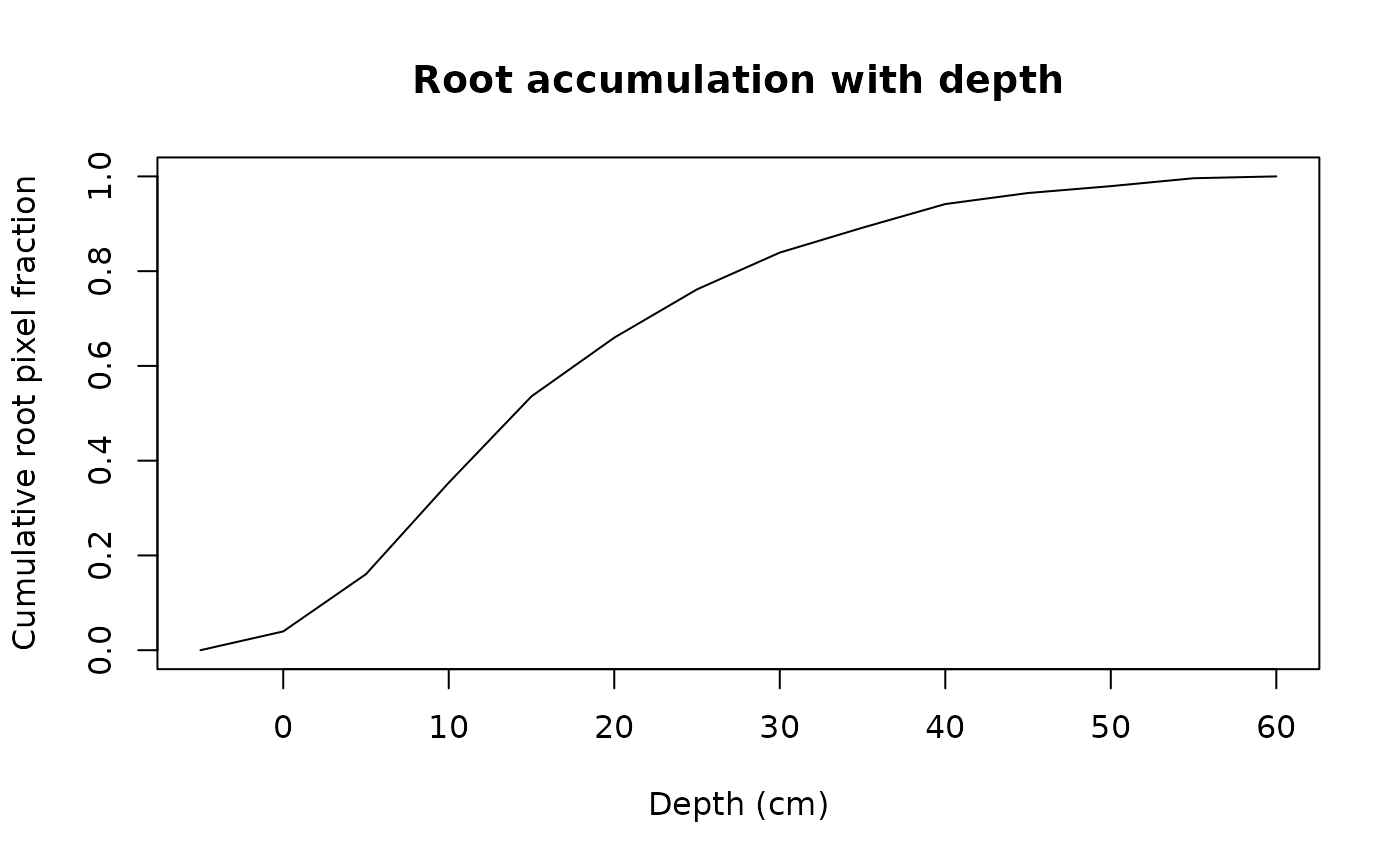
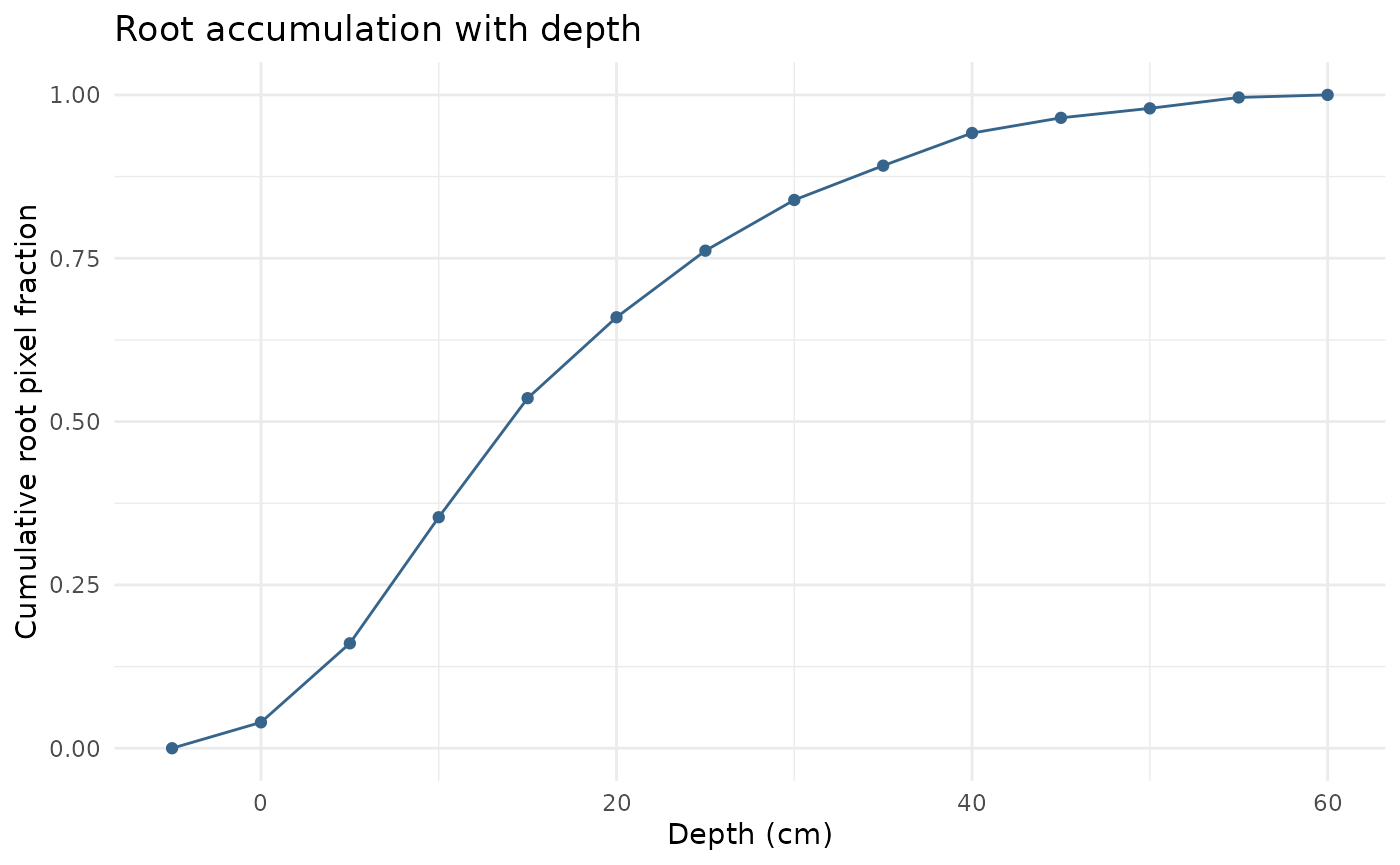
Deploying to gh-pages from @ jcunow/Rootopia@6d923c8a024adc14d2c3fadce9296ad4fd39996d 🚀

diff --git a/articles/MinirhizotronScans_vignettes.html b/articles/MinirhizotronScans_vignettes.html
@@ -109,10 +109,12 @@ and extracting root traits step by step. It is aimed at users who want
 full control over each processing stage or who are working on a specific
 subset of functions.</p>
 <blockquote>
-<p><strong>New to Rootopia?</strong> If you want to process a whole set
-of images in one go, the <a href="BatchProcessing_vignette.html">Batch
-Processing</a> vignette wraps this entire workflow into a single
-<code><a href="../reference/root_depth_metrics.html">root_depth_metrics()</a></code> call. Start there.</p>
+<p><strong>New to Rootopia?</strong> You are in the right place — this
+step-by-step workflow is the recommended starting point. Once you are
+comfortable with the individual functions and want to process a whole
+folder of images at once, the <a href="BatchProcessing_vignette.html">Batch Processing</a> vignette wraps
+this entire workflow into a single <code><a href="../reference/root_depth_metrics.html">root_depth_metrics()</a></code>
+call.</p>
 </blockquote>
 <blockquote>
 <p><strong>Prerequisite</strong>: Rootopia works with already-segmented
@@ -311,9 +313,8 @@ centered.</td>
 <span>  center_offset <span class="op">=</span> <span class="fl">0.5</span>      <span class="co"># 0 = top of tube, 1 = bottom</span></span>
 <span><span class="op">)</span></span>
 <span></span>
-<span><span class="co"># create_depthmap() returns the map already aligned with the input image, so it</span></span>
-<span><span class="co"># shares extent/resolution with the segmented raster (required for terra::zonal()</span></span>
-<span><span class="co"># and depth_zoning() below). No transpose/flip needed.</span></span>
+<span><span class="co"># terra::zonal() and depth_zoning() require rasters to share an extent; snap the</span></span>
+<span><span class="co"># depth map onto the root-layer grid once here.</span></span>
 <span><span class="fu">terra</span><span class="fu">::</span><span class="fu"><a href="https://rspatial.github.io/terra/reference/ext.html" class="external-link">ext</a></span><span class="op">(</span><span class="va">depth_map</span><span class="op">)</span> <span class="op">&lt;-</span> <span class="fu">terra</span><span class="fu">::</span><span class="fu"><a href="https://rspatial.github.io/terra/reference/ext.html" class="external-link">ext</a></span><span class="op">(</span><span class="va">root_layer</span><span class="op">)</span></span>
 <span></span>
 <span><span class="fu">terra</span><span class="fu">::</span><span class="fu"><a href="https://rspatial.github.io/terra/reference/plot.html" class="external-link">plot</a></span><span class="op">(</span><span class="va">depth_map</span>, main <span class="op">=</span> <span class="st">"Depth map (cm)"</span><span class="op">)</span></span></code></pre></div>
@@ -432,8 +433,10 @@ that takes a whole image.</p>
 <div class="section level5">
 <h5 id="d--root-diameter-whole-profile-with-zonal">5d. Root diameter — whole profile with <code>zonal()</code><a class="anchor" aria-label="anchor" href="#d--root-diameter-whole-profile-with-zonal"></a>
 </h5>
-<p>Diameter is a per-pixel value, so once you have the diameter raster
-you are back in <code><a href="https://rspatial.github.io/terra/reference/zonal.html" class="external-link">zonal()</a></code> territory.</p>
+<p><code><a href="../reference/root_diameter.html">root_diameter()</a></code> estimates a diameter at every skeleton
+pixel (in the <code>unit</code> you specify) and returns it as a raster.
+Because it is a per-pixel value, the profile reduces with
+<code><a href="https://rspatial.github.io/terra/reference/zonal.html" class="external-link">zonal()</a></code> just like the pixel counts in 5a.</p>
 <div class="sourceCode" id="cb10"><pre class="downlit sourceCode r">
 <code class="sourceCode R"><span><span class="va">diam_result</span> <span class="op">&lt;-</span> <span class="fu"><a href="../reference/root_diameter.html">root_diameter</a></span><span class="op">(</span></span>
 <span>  <span class="va">root_layer</span>,</span>
@@ -441,7 +444,6 @@ you are back in <code><a href="https://rspatial.github.io/terra/reference/zonal.
 <span>  unit         <span class="op">=</span> <span class="st">"cm"</span>,</span>
 <span>  select_layer <span class="op">=</span> <span class="cn">NULL</span></span>
 <span><span class="op">)</span></span>
-<span><span class="co"># Align the diameter raster to the depth grid before zonal aggregation</span></span>
 <span><span class="fu">terra</span><span class="fu">::</span><span class="fu"><a href="https://rspatial.github.io/terra/reference/ext.html" class="external-link">ext</a></span><span class="op">(</span><span class="va">diam_result</span><span class="op">$</span><span class="va">diameter_rast</span><span class="op">)</span> <span class="op">&lt;-</span> <span class="fu">terra</span><span class="fu">::</span><span class="fu"><a href="https://rspatial.github.io/terra/reference/ext.html" class="external-link">ext</a></span><span class="op">(</span><span class="va">depth_bins</span><span class="op">)</span></span>
 <span></span>
 <span><span class="va">diam_by_depth</span> <span class="op">&lt;-</span> <span class="fu">terra</span><span class="fu">::</span><span class="fu"><a href="https://rspatial.github.io/terra/reference/zonal.html" class="external-link">zonal</a></span><span class="op">(</span><span class="va">diam_result</span><span class="op">$</span><span class="va">diameter_rast</span>, <span class="va">depth_bins</span>,</span>
@@ -524,9 +526,9 @@ if your RGB and segmentation already share a grid you can skip it.</p>
 <span><span class="op">}</span><span class="op">)</span></span>
 <span><span class="va">color_df</span> <span class="op">&lt;-</span> <span class="fu"><a href="https://rdrr.io/r/base/do.call.html" class="external-link">do.call</a></span><span class="op">(</span><span class="va">rbind</span>, <span class="va">color_list</span><span class="op">)</span>   <span class="co"># NULLs from empty bins are dropped</span></span></code></pre></div>
 <blockquote>
-<p>Looking for <strong>root branching order</strong> (main axis
-vs. laterals)? That analysis has no depth dimension, so it lives in the
-<a href="FlatBedScans_vignettes.html#6b-branch-order-main-axis-vs-laterals">Flatbed
+<p>Looking for <strong>root branching order</strong> (segments grouped
+by branching order)? That analysis has no depth dimension, so it lives
+in the <a href="FlatBedScans_vignettes.html#7b-branch-order">Flatbed
 Scans</a> vignette. You can still run it on a minirhizotron skeleton —
 just compute it once for the whole image rather than per depth bin.</p>
 </blockquote>
@@ -539,18 +541,15 @@ just compute it once for the whole image rather than per depth bin.</p>
 <p>These tube-level summary metrics require a complete depth
 profile.</p>
 <div class="sourceCode" id="cb13"><pre class="downlit sourceCode r">
-<code class="sourceCode R"><span><span class="co"># Mean rooting depth — depth-weighted mean</span></span>
+<code class="sourceCode R"><span><span class="co"># Mean rooting depth — depth-weighted mean (a robust centre-of-root-mass estimate)</span></span>
 <span><span class="va">mrd_val</span> <span class="op">&lt;-</span> <span class="fu"><a href="../reference/MRD.html">MRD</a></span><span class="op">(</span>w <span class="op">=</span> <span class="va">depth_data</span><span class="op">$</span><span class="va">depth</span>, roots <span class="op">=</span> <span class="va">depth_data</span><span class="op">$</span><span class="va">rootlength.density</span><span class="op">)</span></span>
-<span></span>
-<span><span class="co"># Root Penetration Index — how evenly roots are distributed with depth (-1 to 1)</span></span>
-<span><span class="va">rpi_val</span>  <span class="op">&lt;-</span> <span class="fu"><a href="../reference/RPI.html">RPI</a></span><span class="op">(</span>roots <span class="op">=</span> <span class="va">depth_data</span><span class="op">$</span><span class="va">rootlength.density</span>, w <span class="op">=</span> <span class="va">depth_data</span><span class="op">$</span><span class="va">depth</span><span class="op">)</span></span>
 <span></span>
 <span><span class="co"># Total length density — sum over the full profile</span></span>
 <span><span class="va">total_ld</span> <span class="op">&lt;-</span> <span class="fu"><a href="https://rdrr.io/r/base/sum.html" class="external-link">sum</a></span><span class="op">(</span><span class="va">depth_data</span><span class="op">$</span><span class="va">rootlength.density</span> <span class="op">*</span> <span class="fl">5</span>, na.rm <span class="op">=</span> <span class="cn">TRUE</span><span class="op">)</span></span>
 <span></span>
-<span><span class="fu"><a href="https://rdrr.io/r/base/cat.html" class="external-link">cat</a></span><span class="op">(</span><span class="fu"><a href="https://rdrr.io/r/base/sprintf.html" class="external-link">sprintf</a></span><span class="op">(</span><span class="st">"MRD: %.2f  RPI: %.3f  Total length density: %.4f\n"</span>,</span>
-<span>            <span class="va">mrd_val</span>, <span class="va">rpi_val</span>, <span class="va">total_ld</span><span class="op">)</span><span class="op">)</span></span>
-<span><span class="co">#&gt; MRD: 19.41  RPI: 0.899  Total length density: 72.0588</span></span></code></pre></div>
+<span><span class="fu"><a href="https://rdrr.io/r/base/cat.html" class="external-link">cat</a></span><span class="op">(</span><span class="fu"><a href="https://rdrr.io/r/base/sprintf.html" class="external-link">sprintf</a></span><span class="op">(</span><span class="st">"MRD: %.2f  Total length density: %.4f\n"</span>,</span>
+<span>            <span class="va">mrd_val</span>, <span class="va">total_ld</span><span class="op">)</span><span class="op">)</span></span>
+<span><span class="co">#&gt; MRD: 19.41  Total length density: 72.0588</span></span></code></pre></div>
 <p><code><a href="../reference/root_accumulation.html">root_accumulation()</a></code> complements these by returning the
 cumulative profile itself — useful for plotting how root mass/length
 accumulates with depth, or for comparing the <em>shape</em> of
@@ -567,9 +566,13 @@ accumulation curves between tubes/plots.</p>
 <span>  stdrz    <span class="op">=</span> <span class="st">"additive"</span>   <span class="co"># "counts" (raw), "additive" (/max), or "relative" (/sum)</span></span>
 <span><span class="op">)</span></span>
 <span></span>
-<span><span class="fu"><a href="https://rspatial.github.io/terra/reference/plot.html" class="external-link">plot</a></span><span class="op">(</span><span class="va">depth_data</span><span class="op">$</span><span class="va">depth</span>, <span class="va">depth_data</span><span class="op">$</span><span class="va">rootpx.cumulative</span>, type <span class="op">=</span> <span class="st">"l"</span>,</span>
-<span>     xlab <span class="op">=</span> <span class="st">"Depth (cm)"</span>, ylab <span class="op">=</span> <span class="st">"Cumulative root pixel fraction"</span>,</span>
-<span>     main <span class="op">=</span> <span class="st">"Root accumulation with depth"</span><span class="op">)</span></span></code></pre></div>
+<span><span class="kw"><a href="https://rdrr.io/r/base/library.html" class="external-link">library</a></span><span class="op">(</span><span class="va"><a href="https://ggplot2.tidyverse.org" class="external-link">ggplot2</a></span><span class="op">)</span></span>
+<span><span class="fu"><a href="https://ggplot2.tidyverse.org/reference/ggplot.html" class="external-link">ggplot</a></span><span class="op">(</span><span class="va">depth_data</span>, <span class="fu"><a href="https://ggplot2.tidyverse.org/reference/aes.html" class="external-link">aes</a></span><span class="op">(</span>x <span class="op">=</span> <span class="va">depth</span>, y <span class="op">=</span> <span class="va">rootpx.cumulative</span><span class="op">)</span><span class="op">)</span> <span class="op">+</span></span>
+<span>  <span class="fu"><a href="https://ggplot2.tidyverse.org/reference/geom_path.html" class="external-link">geom_line</a></span><span class="op">(</span>color <span class="op">=</span> <span class="st">"steelblue4"</span><span class="op">)</span> <span class="op">+</span></span>
+<span>  <span class="fu"><a href="https://ggplot2.tidyverse.org/reference/geom_point.html" class="external-link">geom_point</a></span><span class="op">(</span>color <span class="op">=</span> <span class="st">"steelblue4"</span><span class="op">)</span> <span class="op">+</span></span>
+<span>  <span class="fu"><a href="https://ggplot2.tidyverse.org/reference/ggtheme.html" class="external-link">theme_minimal</a></span><span class="op">(</span><span class="op">)</span> <span class="op">+</span></span>
+<span>  <span class="fu"><a href="https://ggplot2.tidyverse.org/reference/labs.html" class="external-link">labs</a></span><span class="op">(</span>x <span class="op">=</span> <span class="st">"Depth (cm)"</span>, y <span class="op">=</span> <span class="st">"Cumulative root pixel fraction"</span>,</span>
+<span>       title <span class="op">=</span> <span class="st">"Root accumulation with depth"</span><span class="op">)</span></span></code></pre></div>
 <p><img src="MinirhizotronScans_vignettes_files/figure-html/unnamed-chunk-14-1.png" class="r-plt" alt="" width="700"></p>
 <p><code>stdrz = "relative"</code> rescales the cumulative curve to end
 at 1, which makes accumulation curves directly comparable between tubes
@@ -583,8 +586,8 @@ depth distribution is compared.</p>
 <div class="sourceCode" id="cb15"><pre class="downlit sourceCode r">
 <code class="sourceCode R"><span><span class="fu"><a href="https://rdrr.io/r/utils/data.html" class="external-link">data</a></span><span class="op">(</span><span class="va">skl_Oulanka2023_Session01_T067</span><span class="op">)</span></span>
 <span><span class="fu"><a href="https://rdrr.io/r/utils/data.html" class="external-link">data</a></span><span class="op">(</span><span class="va">skl_Oulanka2023_Session03_T067</span><span class="op">)</span></span>
-<span><span class="va">t1</span> <span class="op">&lt;-</span> <span class="fu">terra</span><span class="fu">::</span><span class="fu"><a href="https://rspatial.github.io/terra/reference/rast.html" class="external-link">rast</a></span><span class="op">(</span><span class="va">skl_Oulanka2023_Session01_T067</span><span class="op">)</span></span>
-<span><span class="va">t2</span> <span class="op">&lt;-</span> <span class="fu">terra</span><span class="fu">::</span><span class="fu"><a href="https://rspatial.github.io/terra/reference/rast.html" class="external-link">rast</a></span><span class="op">(</span><span class="va">skl_Oulanka2023_Session03_T067</span><span class="op">)</span></span>
+<span><span class="va">t1</span> <span class="op">&lt;-</span> <span class="fu"><a href="../reference/load_flexible_image.html">load_flexible_image</a></span><span class="op">(</span><span class="va">skl_Oulanka2023_Session01_T067</span>, output_format <span class="op">=</span> <span class="st">"spatrast"</span><span class="op">)</span></span>
+<span><span class="va">t2</span> <span class="op">&lt;-</span> <span class="fu"><a href="../reference/load_flexible_image.html">load_flexible_image</a></span><span class="op">(</span><span class="va">skl_Oulanka2023_Session03_T067</span>, output_format <span class="op">=</span> <span class="st">"spatrast"</span><span class="op">)</span></span>
 <span></span>
 <span><span class="va">turnover</span> <span class="op">&lt;-</span> <span class="fu"><a href="../reference/root_turnover.html">root_turnover</a></span><span class="op">(</span></span>
 <span>  img1      <span class="op">=</span> <span class="va">t1</span>,</span>
@@ -594,8 +597,6 @@ depth distribution is compared.</p>
 <span>  dpi       <span class="op">=</span> <span class="fl">150</span>,</span>
 <span>  unit      <span class="op">=</span> <span class="st">"cm"</span></span>
 <span><span class="op">)</span></span>
-<span><span class="co">#&gt; Diagonal: 457958 | Orthogonal: 459143</span></span>
-<span><span class="co">#&gt; Diagonal: 431284 | Orthogonal: 432437</span></span>
 <span><span class="fu"><a href="https://rdrr.io/r/base/print.html" class="external-link">print</a></span><span class="op">(</span><span class="va">turnover</span><span class="op">)</span></span>
 <span><span class="co">#&gt;   standingroot_t1 standingroot_t2 production newroot.per_t1 newroot.per_t2</span></span>
 <span><span class="co">#&gt; 1        17875.84        16835.23  -1040.613        -0.0582        -0.0618</span></span></code></pre></div>

diff --git a/reference/root_depth_metrics.html b/reference/root_depth_metrics.html
@@ -286,10 +286,9 @@ imaged area) per bin.  Auto-enables <code>calc_root_pixels</code> and
 
 <dt id="arg-calc-distribution-indices">calc_distribution_indices<a class="anchor" aria-label="anchor" href="#arg-calc-distribution-indices"></a></dt>
 <dd><p>Logical. Compute tube-level indices:
-<code>mrd</code> (mean rooting depth), <code>rpi</code> (root
-penetration index), and <code>total.length.density</code> (summed length
-density over all bins, in cm root per cm^2 per cm depth).  Auto-enables
-<code>calc_density_metrics</code>.  Default <code>TRUE</code>.</p></dd>
+<code>mrd</code> (mean rooting depth) and <code>total.length.density</code> (summed
+length density over all bins, in cm root per cm^2 per cm depth).
+Auto-enables <code>calc_density_metrics</code>.  Default <code>TRUE</code>.</p></dd>
 
 
 <dt id="arg-calc-advanced-metrics">calc_advanced_metrics<a class="anchor" aria-label="anchor" href="#arg-calc-advanced-metrics"></a></dt>

diff --git a/articles/MinirhizotronScans_vignettes.md b/articles/MinirhizotronScans_vignettes.md
@@ -21,12 +21,14 @@ and extracting root traits step by step. It is aimed at users who want
 full control over each processing stage or who are working on a specific
 subset of functions.
 
-> **New to Rootopia?** If you want to process a whole set of images in
-> one go, the [Batch
+> **New to Rootopia?** You are in the right place — this step-by-step
+> workflow is the recommended starting point. Once you are comfortable
+> with the individual functions and want to process a whole folder of
+> images at once, the [Batch
 > Processing](https://jcunow.github.io/Rootopia/articles/BatchProcessing_vignette.md)
 > vignette wraps this entire workflow into a single
 > [`root_depth_metrics()`](https://jcunow.github.io/Rootopia/reference/root_depth_metrics.md)
-> call. Start there.
+> call.
 
 > **Prerequisite**: Rootopia works with already-segmented images.
 > Segmentation must be done beforehand using
@@ -208,9 +210,8 @@ depth_map <- create_depthmap(
   center_offset = 0.5      # 0 = top of tube, 1 = bottom
 )
 
-# create_depthmap() returns the map already aligned with the input image, so it
-# shares extent/resolution with the segmented raster (required for terra::zonal()
-# and depth_zoning() below). No transpose/flip needed.
+# terra::zonal() and depth_zoning() require rasters to share an extent; snap the
+# depth map onto the root-layer grid once here.
 terra::ext(depth_map) <- terra::ext(root_layer)
 
 terra::plot(depth_map, main = "Depth map (cm)")
@@ -337,10 +338,12 @@ head(depth_data)
 
 ##### 5d. Root diameter — whole profile with `zonal()`
 
-Diameter is a per-pixel value, so once you have the diameter raster you
-are back in
-[`zonal()`](https://rspatial.github.io/terra/reference/zonal.html)
-territory.
+[`root_diameter()`](https://jcunow.github.io/Rootopia/reference/root_diameter.md)
+estimates a diameter at every skeleton pixel (in the `unit` you specify)
+and returns it as a raster. Because it is a per-pixel value, the profile
+reduces with
+[`zonal()`](https://rspatial.github.io/terra/reference/zonal.html) just
+like the pixel counts in 5a.
 
 ``` r
 
@@ -350,7 +353,6 @@ diam_result <- root_diameter(
   unit         = "cm",
   select_layer = NULL
 )
-# Align the diameter raster to the depth grid before zonal aggregation
 terra::ext(diam_result$diameter_rast) <- terra::ext(depth_bins)
 
 diam_by_depth <- terra::zonal(diam_result$diameter_rast, depth_bins,
@@ -440,9 +442,10 @@ color_list <- lapply(depths, function(d) {
 color_df <- do.call(rbind, color_list)   # NULLs from empty bins are dropped
 ```
 
-> Looking for **root branching order** (main axis vs. laterals)? That
-> analysis has no depth dimension, so it lives in the [Flatbed
-> Scans](https://jcunow.github.io/Rootopia/articles/FlatBedScans_vignettes.html#6b-branch-order-main-axis-vs-laterals)
+> Looking for **root branching order** (segments grouped by branching
+> order)? That analysis has no depth dimension, so it lives in the
+> [Flatbed
+> Scans](https://jcunow.github.io/Rootopia/articles/FlatBedScans_vignettes.html#7b-branch-order)
 > vignette. You can still run it on a minirhizotron skeleton — just
 > compute it once for the whole image rather than per depth bin.
 
@@ -454,18 +457,15 @@ These tube-level summary metrics require a complete depth profile.
 
 ``` r
 
-# Mean rooting depth — depth-weighted mean
+# Mean rooting depth — depth-weighted mean (a robust centre-of-root-mass estimate)
 mrd_val <- MRD(w = depth_data$depth, roots = depth_data$rootlength.density)
-
-# Root Penetration Index — how evenly roots are distributed with depth (-1 to 1)
-rpi_val  <- RPI(roots = depth_data$rootlength.density, w = depth_data$depth)
 
 # Total length density — sum over the full profile
 total_ld <- sum(depth_data$rootlength.density * 5, na.rm = TRUE)
 
-cat(sprintf("MRD: %.2f  RPI: %.3f  Total length density: %.4f\n",
-            mrd_val, rpi_val, total_ld))
-#> MRD: 19.41  RPI: 0.899  Total length density: 72.0588
+cat(sprintf("MRD: %.2f  Total length density: %.4f\n",
+            mrd_val, total_ld))
+#> MRD: 19.41  Total length density: 72.0588
 ```
 
 [`root_accumulation()`](https://jcunow.github.io/Rootopia/reference/root_accumulation.md)
@@ -486,9 +486,13 @@ depth_data$rootpx.cumulative <- root_accumulation(
   stdrz    = "additive"   # "counts" (raw), "additive" (/max), or "relative" (/sum)
 )
 
-plot(depth_data$depth, depth_data$rootpx.cumulative, type = "l",
-     xlab = "Depth (cm)", ylab = "Cumulative root pixel fraction",
-     main = "Root accumulation with depth")
+library(ggplot2)
+ggplot(depth_data, aes(x = depth, y = rootpx.cumulative)) +
+  geom_line(color = "steelblue4") +
+  geom_point(color = "steelblue4") +
+  theme_minimal() +
+  labs(x = "Depth (cm)", y = "Cumulative root pixel fraction",
+       title = "Root accumulation with depth")
 ```
 
 ![](MinirhizotronScans_vignettes_files/figure-html/unnamed-chunk-14-1.png)
@@ -506,8 +510,8 @@ compared.
 
 data(skl_Oulanka2023_Session01_T067)
 data(skl_Oulanka2023_Session03_T067)
-t1 <- terra::rast(skl_Oulanka2023_Session01_T067)
-t2 <- terra::rast(skl_Oulanka2023_Session03_T067)
+t1 <- load_flexible_image(skl_Oulanka2023_Session01_T067, output_format = "spatrast")
+t2 <- load_flexible_image(skl_Oulanka2023_Session03_T067, output_format = "spatrast")
 
 turnover <- root_turnover(
   img1      = t1,
@@ -517,8 +521,6 @@ turnover <- root_turnover(
   dpi       = 150,
   unit      = "cm"
 )
-#> Diagonal: 457958 | Orthogonal: 459143
-#> Diagonal: 431284 | Orthogonal: 432437
 print(turnover)
 #>   standingroot_t1 standingroot_t2 production newroot.per_t1 newroot.per_t2
 #> 1        17875.84        16835.23  -1040.613        -0.0582        -0.0618

diff --git a/reference/root_depth_metrics.md b/reference/root_depth_metrics.md
@@ -224,10 +224,10 @@ root_depth_metrics(
 
 - calc_distribution_indices:
 
-  Logical. Compute tube-level indices: `mrd` (mean rooting depth), `rpi`
-  (root penetration index), and `total.length.density` (summed length
-  density over all bins, in cm root per cm^2 per cm depth). Auto-enables
-  `calc_density_metrics`. Default `TRUE`.
+  Logical. Compute tube-level indices: `mrd` (mean rooting depth) and
+  `total.length.density` (summed length density over all bins, in cm
+  root per cm^2 per cm depth). Auto-enables `calc_density_metrics`.
+  Default `TRUE`.
 
 - calc_advanced_metrics:
 